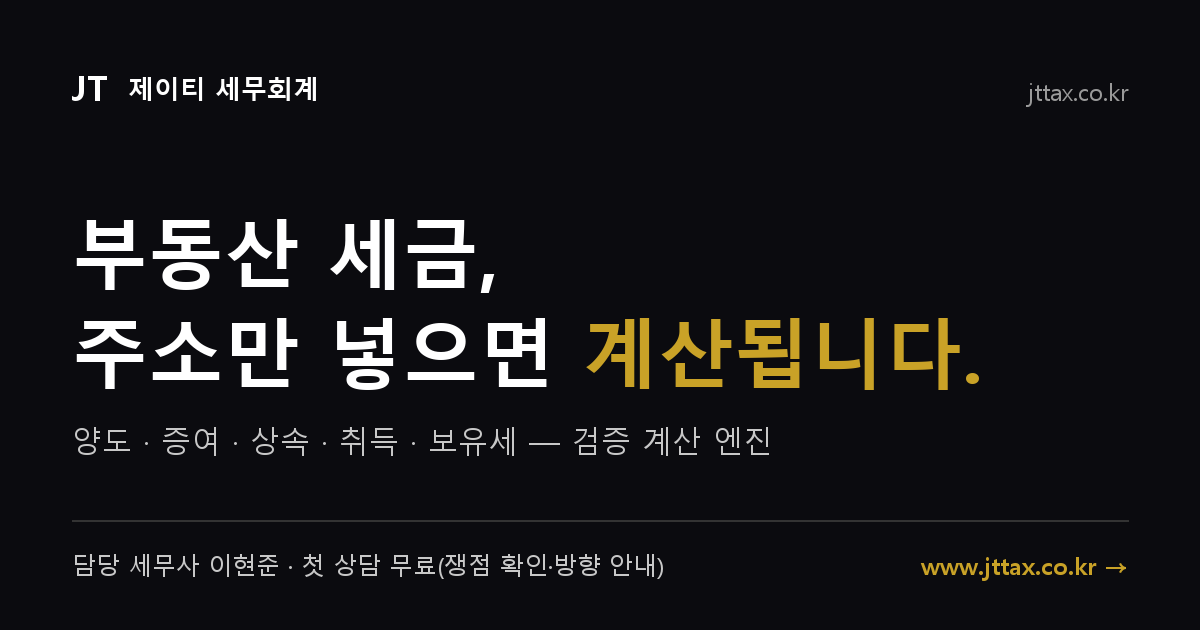
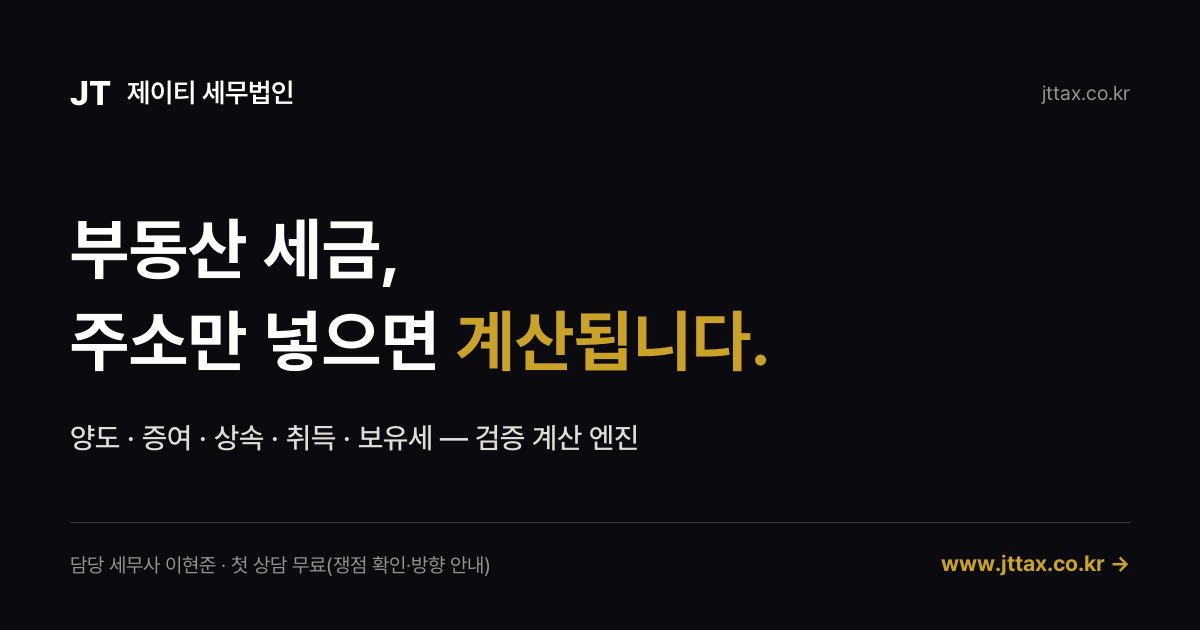
fix(brand): og-image 구 상호 픽셀 각인 제거 — 세무회계→세무법인 재생성
■ 문제
project/assets/og-image.png 좌상단에 «제이티 세무회계»가 픽셀로 각인돼 있었다.
텍스트가 아니라 이미지라 grep 에 안 잡혀, 260804 브랜딩 전수 교체(351건)를
그대로 통과했다. 배포 시 카톡·페북 공유 미리보기에 구 상호가 노출될 뻔했다.

■ 조치
- build-og-image.py 신설 — 손으로 만들지 않고 스크립트로 재생성한다.
  상호·카피는 파일 상단 상수로 분리해 다음 변경 때 여기만 고치면 되게 함.
- Pretendard(브랜드 폰트) 사용, 기존 디자인·색상(#0B0B0F/#C9A227) 유지
- 렌더 결과 육안 확인 완료 — 「제이티 세무법인」 정상 각인

■ 나머지 이미지 전수 육안 확인 (grep 불가 영역)
favicon16/32·icon192/512·appletouchicon·logo_symbol(+white)·jt-mark
→ 전부 순수 도형 로고마크, 각인 문구 없음. 조치 불필요.

diff --git a/project/assets/build-og-image.py b/project/assets/build-og-image.py
@@ -1,0 +1,81 @@
+# -*- coding: utf-8 -*-
+"""
+og-image.png 생성기 (1200×630) — 카카오·페이스북·트위터 공유 미리보기 이미지
+
+★ 왜 스크립트로 만드는가
+   종전 og-image.png 에는 «제이티 세무회계»가 **픽셀로 각인**돼 있었다.
+   텍스트가 아니라 이미지라 grep 에 잡히지 않아, 260804 브랜딩 전수 교체
+   (텍스트 351건)에서 살아남아 그대로 배포될 뻔했다.
+   → 다시는 손으로 만들지 않는다. 상호·문구가 바뀌면 이 파일만 고치고 재실행한다.
+
+실행:  python project/assets/build-og-image.py
+"""
+import os
+from PIL import Image, ImageDraw, ImageFont
+
+HERE = os.path.dirname(os.path.abspath(__file__))
+OUT = os.path.join(HERE, 'og-image.png')
+
+# 브랜드 자산 — 제이티 세법 브랜드(Pretendard) 준수
+FONT_DIR = r'D:\클로드\강의\수험\세법\강의스크립트\작업\OT\슬라이드\assets'
+def font(weight, size):
+    path = os.path.join(FONT_DIR, 'Pretendard-%s.otf' % weight)
+    if not os.path.exists(path):                      # 폴백: 맑은 고딕
+        path = r'C:\Windows\Fonts\malgunbd.ttf' if weight in ('Bold', 'ExtraBold', 'Black') \
+               else r'C:\Windows\Fonts\malgun.ttf'
+    return ImageFont.truetype(path, size)
+
+W, H = 1200, 630
+BG      = (11, 11, 15)        # #0B0B0F
+WHITE   = (255, 255, 255)
+GOLD    = (201, 162, 39)      # #C9A227
+GRAY    = (150, 148, 143)
+DIVIDER = (58, 57, 62)
+
+# ── 문구 (상호·카피 변경 시 여기만 수정) ──────────────────────────────
+FIRM        = '제이티 세무법인'          # ⚠ 세무법인 설립 완료(260804) — 「세무회계」 금지
+DOMAIN      = 'jttax.co.kr'
+HEADLINE_1  = '부동산 세금,'
+HEADLINE_2A = '주소만 넣으면 '
+HEADLINE_2B = '계산됩니다.'              # 골드 강조
+SUBLINE     = '양도 · 증여 · 상속 · 취득 · 보유세 — 검증 계산 엔진'
+FOOTER_L    = '담당 세무사 이현준 · 첫 상담 무료(쟁점 확인·방향 안내)'
+FOOTER_R    = 'www.jttax.co.kr →'
+# ⚠ 세무사법 §12조의7: 연고 표방(「국세청 출신」 등)·최상급 표현 금지.
+#    위 문구는 사실 서술만 담는다.
+
+img = Image.new('RGB', (W, H), BG)
+d = ImageDraw.Draw(img)
+
+def right(text, f, x_right, y, fill):
+    w = d.textbbox((0, 0), text, font=f)[2]
+    d.text((x_right - w, y), text, font=f, fill=fill)
+
+# 헤더
+f_jt = font('ExtraBold', 34)
+d.text((70, 72), 'JT', font=f_jt, fill=WHITE)
+jt_w = d.textbbox((0, 0), 'JT', font=f_jt)[2]
+d.text((70 + jt_w + 16, 76), FIRM, font=font('SemiBold', 27), fill=WHITE)
+right(DOMAIN, font('Regular', 20), W - 70, 80, GRAY)
+
+# 헤드라인
+f_head = font('Bold', 68)
+d.text((70, 208), HEADLINE_1, font=f_head, fill=WHITE)
+d.text((70, 300), HEADLINE_2A, font=f_head, fill=WHITE)
+w2a = d.textbbox((0, 0), HEADLINE_2A, font=f_head)[2]
+d.text((70 + w2a, 300), HEADLINE_2B, font=f_head, fill=GOLD)
+
+# 서브라인
+d.text((70, 420), SUBLINE, font=font('Medium', 29), fill=(224, 222, 217))
+
+# 구분선 + 푸터
+d.line([(70, 522), (W - 70, 522)], fill=DIVIDER, width=1)
+d.text((70, 552), FOOTER_L, font=font('Regular', 20), fill=GRAY)
+right(FOOTER_R, font('Bold', 22), W - 70, 550, GOLD)
+
+img.save(OUT, 'PNG', optimize=True)
+print('OK ->', OUT, img.size, os.path.getsize(OUT), 'bytes')
+
+# 자기검증: 상호가 실제로 바뀌었는지는 «렌더된 픽셀»을 눈으로 봐야 한다.
+# 스크립트가 성공했다는 것만으로 각인 문구가 옳다고 결론짓지 말 것.
+print('⚠ 반드시 렌더된 PNG를 육안으로 확인할 것 (grep 으로는 각인 문구를 못 본다)')
